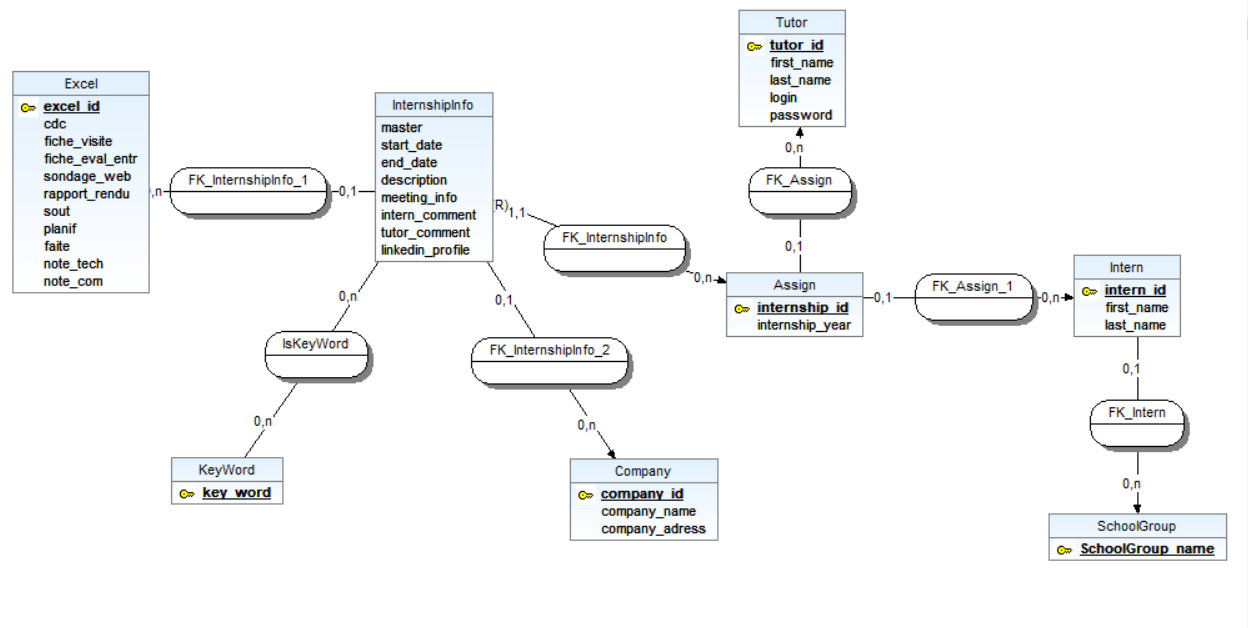
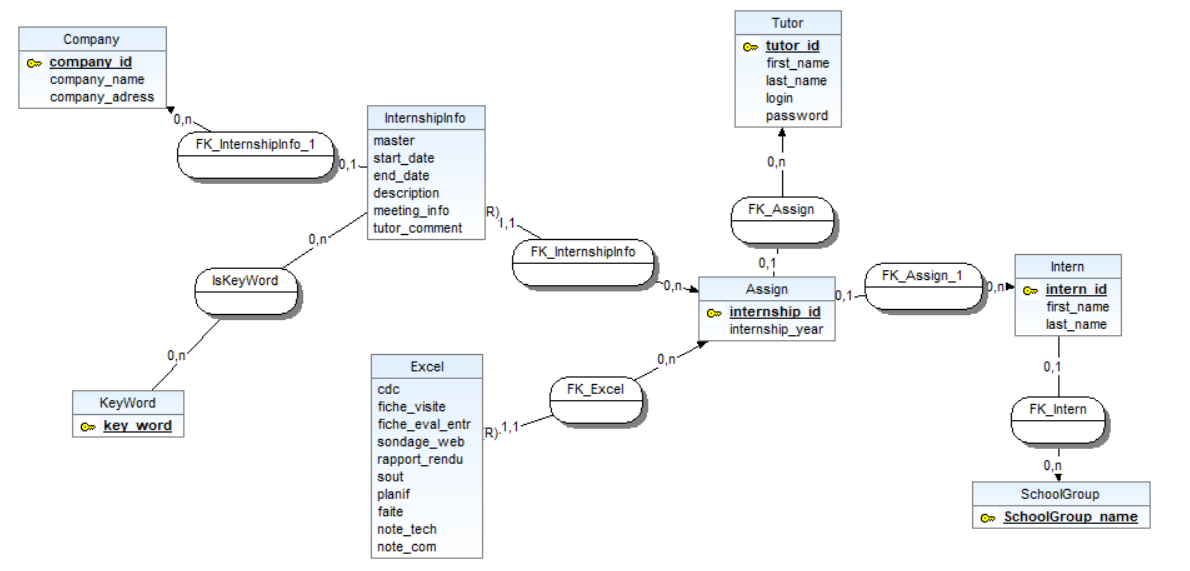
change database structure

diff --git a/src/main/java/Database/InternDAOImpl.java b/src/main/java/Database/InternDAOImpl.java
@@ -41,7 +41,7 @@ public class InternDAOImpl implements InternDAO {
             + "FROM ASSIGN "
             + "INNER JOIN INTERN ON ASSIGN.INTERN_ID = INTERN.INTERN_ID "
             + "INNER JOIN INTERNSHIPINFO ON ASSIGN.INTERNSHIP_ID = INTERNSHIPINFO.INTERNSHIP_ID "
-            + "INNER JOIN EXCEL ON INTERNSHIPINFO.EXCEL_ID = EXCEL.EXCEL_ID "
+            + "INNER JOIN EXCEL ON ASSIGN.INTERNSHIP_ID = EXCEL.INTERNSHIP_ID "
             + "INNER JOIN COMPANY ON INTERNSHIPINFO.COMPANY_ID = COMPANY.COMPANY_ID "
             + "WHERE ASSIGN.TUTOR_ID = "+ id;
         return stmt.executeQuery(queryCount);
@@ -56,7 +56,7 @@ public class InternDAOImpl implements InternDAO {
             + "FROM ASSIGN "
             + "INNER JOIN INTERN ON ASSIGN.INTERN_ID = INTERN.INTERN_ID "
             + "INNER JOIN INTERNSHIPINFO ON ASSIGN.INTERNSHIP_ID = INTERNSHIPINFO.INTERNSHIP_ID "
-            + "INNER JOIN EXCEL ON INTERNSHIPINFO.EXCEL_ID = EXCEL.EXCEL_ID "
+            + "INNER JOIN EXCEL ON INTERNSHIPINFO.INTERNSHIP_ID = EXCEL.INTERNSHIP_ID "
             + "INNER JOIN COMPANY ON INTERNSHIPINFO.COMPANY_ID = COMPANY.COMPANY_ID "
             + "WHERE ASSIGN.Internship_Id = "+ id;
         return stmt.executeQuery(queryCount);
@@ -83,7 +83,7 @@ public class InternDAOImpl implements InternDAO {
         
         String updateQuery = "UPDATE Excel SET cdc= ?, fiche_visite=?, fiche_eval_entr=?,"
                 + " sondage_web=?, rapport_rendu=?, sout=?, planif=?, faite=?, note_tech=?,"
-                + " note_com=? WHERE excel_id = ?";
+                + " note_com=? WHERE internship_id = ?";
         PreparedStatement ps = conn.prepareStatement(updateQuery);
         ps.setBoolean(1, e.getCdc());
         ps.setBoolean(2, e.getFicheVisite());
@@ -95,7 +95,7 @@ public class InternDAOImpl implements InternDAO {
         ps.setBoolean(8, e.getFaite());
         ps.setInt(9, e.getNoteTech());
         ps.setInt(10, e.getNoteCom());
-        ps.setInt(11, e.getExcelId());
+        ps.setInt(11, e.getInternshipId());
 
         ps.executeUpdate();
     }
@@ -153,10 +153,11 @@ public class InternDAOImpl implements InternDAO {
         return (int) rs.getLong(1);
     }
     
-    public int insertExcel() throws SQLException{
-        String query = "INSERT INTO EXCEL(cdc,fiche_visite,fiche_eval_entr,sondage_web,rapport_rendu,sout,planif,faite)"
-                + " VALUES('false','false','false','false','false','false','false','false')";
+    public int insertExcel(int id) throws SQLException{
+        String query = "INSERT INTO EXCEL(internship_id,cdc,fiche_visite,fiche_eval_entr,sondage_web,rapport_rendu,sout,planif,faite)"
+                + " VALUES(?,'false','false','false','false','false','false','false','false')";
         PreparedStatement ps = conn.prepareStatement(query,Statement.RETURN_GENERATED_KEYS);
+        ps.setInt(1, id);
         ps.executeUpdate();
         ResultSet rs = ps.getGeneratedKeys();
         rs.next();
@@ -183,14 +184,13 @@ public class InternDAOImpl implements InternDAO {
     }
     
     public void insertInternshipInfo(InternshipInfo info) throws SQLException{
-        String query = "INSERT INTO InternshipInfo(internship_id,company_id,master,start_date,end_date,excel_id) VALUES(?,?,?,?,?,?)";
+        String query = "INSERT INTO InternshipInfo(internship_id,company_id,master,start_date,end_date) VALUES(?,?,?,?,?)";
         PreparedStatement ps = conn.prepareStatement(query);
         ps.setInt(1, info.getInternshipId());
         ps.setInt(2, info.getCompany().getCompanyId());
         ps.setString(3, info.getMaster());
         ps.setDate(4, info.getDateDebut());
         ps.setDate(5, info.getDateFin());
-        ps.setInt(6, info.getExcel().getExcelId());
         ps.executeUpdate();
     }
 }

diff --git a/src/main/java/Model/Beans/InternshipInfo.java b/src/main/java/Model/Beans/InternshipInfo.java
@@ -14,13 +14,10 @@ public class InternshipInfo {
     private ArrayList<String> keywords;
     private String description;
     private String meetingInfo;
-    private String internComment;
     private String tutorComment;
-    private String linkedinProfile;
     private String master;
     private Date dateDebut;
     private Date dateFin;
-    private Excel excel;
 
 
     public InternshipInfo() {
@@ -67,28 +64,12 @@ public class InternshipInfo {
         this.meetingInfo = meetingInfo;
     }
 
-    public String getInternComment() {
-        return internComment;
-    }
-
-    public void setInternComment(String internComment) {
-        this.internComment = internComment;
-    }
-
     public String getTutorComment() {
         return tutorComment;
     }
 
     public void setTutorComment(String tutorComment) {
         this.tutorComment = tutorComment;
-    }
-
-    public String getLinkedinProfile() {
-        return linkedinProfile;
-    }
-
-    public void setLinkedinProfile(String linkedinProfile) {
-        this.linkedinProfile = linkedinProfile;
     }
     
     public String getMaster(){
@@ -113,13 +94,5 @@ public class InternshipInfo {
 
     public void setDateFin(Date dateFin) {
         this.dateFin = dateFin;
-    }
-
-    public Excel getExcel() {
-        return excel;
-    }
-
-    public void setExcel(Excel excel) {
-        this.excel = excel;
     }
 }

diff --git a/src/main/java/Model/Services/AssignService.java b/src/main/java/Model/Services/AssignService.java
@@ -29,6 +29,7 @@ public class AssignService {
         Assign assign = new Assign();
         assign.setIntern(new InternService().createInternModel(rs));
         assign.setInternshipInfo(new InternshipInfoService().createInternshipModel(rs));
+        assign.setExcel(new ExcelService().createExcelModel(rs));
         return assign;
     }
     
@@ -68,12 +69,10 @@ public class AssignService {
         int tutorId = assign.getTutor().getId();
         
         int internshipId = internDAOImpl.insertAssign(internId,tutorId);
-        int excelId = internDAOImpl.insertExcel();
-        Excel excel = new Excel();
-        excel.setExcelId(excelId);
+        
+        internDAOImpl.insertExcel(internshipId);
         
         InternshipInfo info = assign.getInternshipInfo();
-        info.setExcel(excel);
         info.setInternshipId(internshipId);
         internDAOImpl.insertInternshipInfo(info);
     }

diff --git a/src/main/java/Model/Services/InternshipInfoService.java b/src/main/java/Model/Services/InternshipInfoService.java
@@ -44,12 +44,9 @@ public class InternshipInfoService {
         Internship.setDateFin(rs.getDate("END_DATE"));
         Internship.setDescription(rs.getString("DESCRIPTION"));
         Internship.setMeetingInfo(rs.getString("MEETING_INFO"));
-        Internship.setInternComment(rs.getString("INTERN_COMMENT"));
         Internship.setTutorComment(rs.getString("TUTOR_COMMENT"));
-        Internship.setLinkedinProfile(rs.getString("LINKEDIN_PROFILE"));
         
         Internship.setCompany(createCompanyModel(rs));
-        Internship.setExcel(new ExcelService().createExcelModel(rs));
         return Internship;
     }
 }

diff --git a/src/main/java/Model/Beans/Excel.java b/src/main/java/Model/Beans/Excel.java
@@ -7,7 +7,7 @@ package Model.Beans;
  */
 public class Excel {
     
-    private int excelId;
+    private int internshipId;
     private boolean cdc;
     private boolean ficheVisite;
     private boolean ficheEvalEntr;
@@ -23,12 +23,12 @@ public class Excel {
     public Excel(){}
     
     
-    public int getExcelId() {
-        return excelId;
+    public int getInternshipId() {
+        return internshipId;
     }
 
-    public void setExcelId(int excelId) {
-        this.excelId = excelId;
+    public void setInternshipId(int internshipId) {
+        this.internshipId = internshipId;
     }
 
     

diff --git a/src/main/java/Controllers/UpdateInfos.java b/src/main/java/Controllers/UpdateInfos.java
@@ -52,7 +52,7 @@ public class UpdateInfos extends HttpServlet {
             excel.setFaite(getValue(request.getParameter(UP_FAITE)));
             excel.setNoteCom(Integer.parseInt(request.getParameter(UP_NOTE_COM)));
             excel.setNoteTech(Integer.parseInt(request.getParameter(UP_NOTE_TECH)));
-            excel.setExcelId(Integer.parseInt(request.getParameter(UP_EXCEL_ID)));
+            excel.setInternshipId(Integer.parseInt(request.getParameter(UP_EXCEL_ID)));
             
             InternDAOImpl internDao = new InternDAOImpl();
             internDao.updateExcel(excel);

diff --git a/src/main/java/Model/Services/ExcelService.java b/src/main/java/Model/Services/ExcelService.java
@@ -22,7 +22,7 @@ public class ExcelService {
      */
     public Excel createExcelModel (ResultSet rs)throws SQLException{
         Excel studentInfo = new Excel();
-        studentInfo.setExcelId(rs.getInt("EXCEL_ID"));
+        studentInfo.setInternshipId(rs.getInt("INTERNSHIP_ID"));
         studentInfo.setCdc(rs.getBoolean("CDC"));
         studentInfo.setFicheVisite(rs.getBoolean("FICHE_VISITE"));
         studentInfo.setFicheEvalEntr(rs.getBoolean("FICHE_EVAL_ENTR"));

diff --git a/src/main/java/Model/Beans/Assign.java b/src/main/java/Model/Beans/Assign.java
@@ -10,6 +10,15 @@ public class Assign {
     private Tutor tutor;
     private Intern intern;
     private InternshipInfo internshipInfo;
+    private Excel excel;
+
+    public Excel getExcel() {
+        return excel;
+    }
+
+    public void setExcel(Excel excel) {
+        this.excel = excel;
+    }
     
 
     public Assign() {
